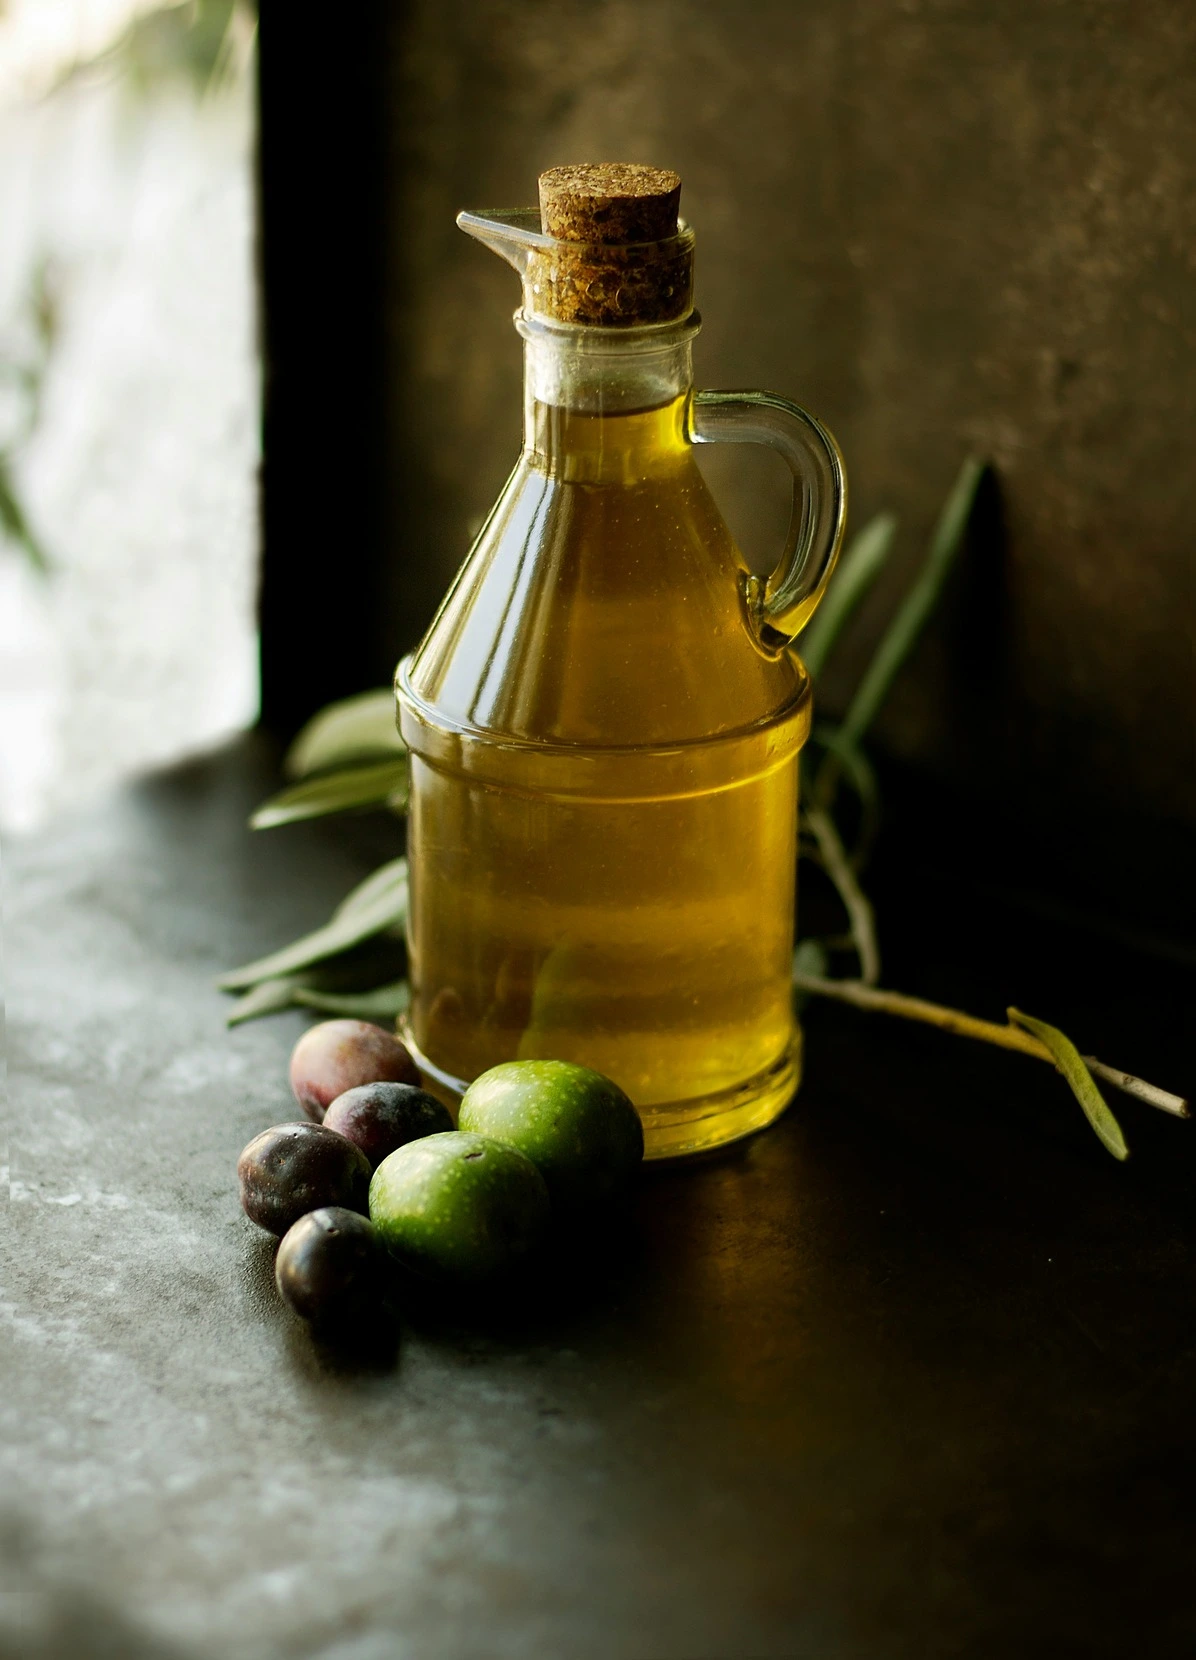
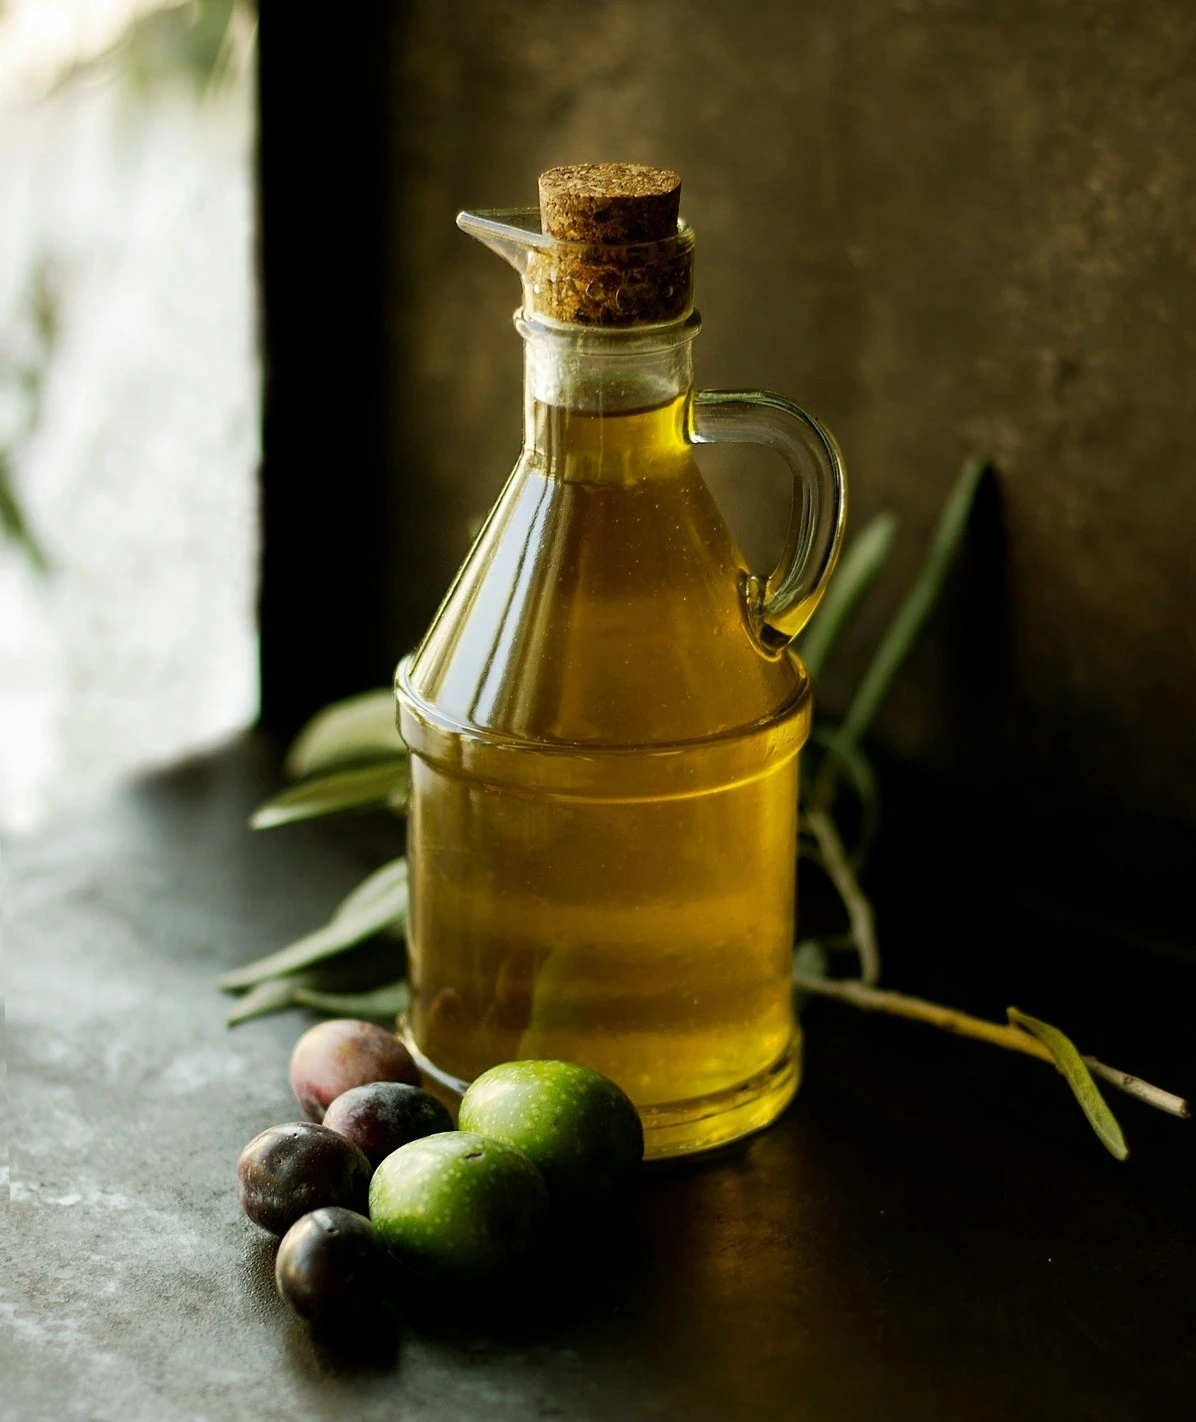
CORECTION DETAILS

diff --git a/index.html b/index.html
@@ -90,9 +90,6 @@
       font-family: var(--heading-font); font-size: 10.5px; font-weight: 500; letter-spacing: 1.6px;
       text-transform: uppercase; color: #6b7280; white-space: nowrap; line-height: 1;
     }
-    .header .logo .brand-full::after {
-      content: ""; display: inline-block; width: 34px; height: 2px; margin-left: 9px; background: var(--accent-color, #d62828); border-radius: 2px;
-    }
     @media (max-width: 575px) {
       .header .logo .brand-name { font-size: 24px; }
       .header .logo .brand-full { font-size: 7.5px; letter-spacing: 1px; margin-top: 4px; }
@@ -354,6 +351,9 @@
               <img src="assets/img/clients/cma.webp" class="img-fluid" alt="CMA CGM logo" loading="lazy">
             </div>
 
+            <div class="swiper-slide client-logo">
+              <img src="assets/img/clients/maersk.webp" class="img-fluid" alt="CMA CGM logo" loading="lazy">
+            </div>
           </div>
         </div> 
           
@@ -531,7 +531,6 @@
 
     <!-- /Services Section -->
 
-    <!-- Portfolio Section -->
     <section id="portfolio" class="portfolio section">
 
       <!-- Section Title -->
@@ -549,6 +548,7 @@
             <li data-filter=".filter-frozen">Frozen Seafood</li>
             <li data-filter=".filter-natural">Agro &amp; Natural Products</li>
             <li data-filter=".filter-industrial">Industrial &amp; General Cargo</li>
+            <li data-filter=".filter-furniture">Furniture &amp; Handicraft</li>
           </ul>
 
           <div class="row gy-4 isotope-container" data-aos="fade-up" data-aos-delay="200">
@@ -692,6 +692,28 @@
                 <h4>Medical Equipment</h4>
                 <p>Medical equipment shipments, handled carefully and on schedule.</p>
                 <a class="cargo-ask" href="https://wa.me/6282229505258?text=Halo%20PT%20Sarana%20Indah%20Logistic%2C%20saya%20ingin%20menanyakan%20pengiriman%20alat%20kesehatan%20%28Medical%20Equipment%29." target="_blank" rel="noopener"><i class="bi bi-whatsapp"></i> Ask about Medical Equipment</a>
+              </div>
+              </div>
+            </div><!-- End Portfolio Item -->
+
+            <div class="col-lg-4 col-md-6 portfolio-item isotope-item filter-furniture">
+              <div class="cargo-card">
+              <img src="assets/img/masonry-portfolio/furniture.webp" class="img-fluid" alt="Furniture prepared for shipment" loading="lazy">
+              <div class="portfolio-info">
+                <h4>Furniture</h4>
+                <p>Furniture shipments, packed and handled with care to avoid damage.</p>
+                <a class="cargo-ask" href="https://wa.me/6282229505258?text=Halo%20PT%20Sarana%20Indah%20Logistic%2C%20saya%20ingin%20menanyakan%20pengiriman%20furnitur%20%28Furniture%29." target="_blank" rel="noopener"><i class="bi bi-whatsapp"></i> Ask about Furniture</a>
+              </div>
+              </div>
+            </div><!-- End Portfolio Item -->
+
+            <div class="col-lg-4 col-md-6 portfolio-item isotope-item filter-furniture">
+              <div class="cargo-card">
+              <img src="assets/img/masonry-portfolio/handycraft.webp" class="img-fluid" alt="Handicraft products prepared for shipment" loading="lazy">
+              <div class="portfolio-info">
+                <h4>Handicraft</h4>
+                <p>Handicraft and decorative product shipments, handled with care.</p>
+                <a class="cargo-ask" href="https://wa.me/6282229505258?text=Halo%20PT%20Sarana%20Indah%20Logistic%2C%20saya%20ingin%20menanyakan%20pengiriman%20kerajinan%20tangan%20%28Handicraft%29." target="_blank" rel="noopener"><i class="bi bi-whatsapp"></i> Ask about Handicraft</a>
               </div>
               </div>
             </div><!-- End Portfolio Item -->

diff --git a/services.html b/services.html
@@ -239,9 +239,6 @@
       font-family: var(--heading-font); font-size: 10.5px; font-weight: 500; letter-spacing: 1.6px;
       text-transform: uppercase; color: #6b7280; white-space: nowrap; line-height: 1;
     }
-    .header .logo .brand-full::after {
-      content: ""; display: inline-block; width: 34px; height: 2px; margin-left: 9px; background: var(--accent-color, #d62828); border-radius: 2px;
-    }
     @media (max-width: 575px) {
       .header .logo .brand-name { font-size: 24px; }
       .header .logo .brand-full { font-size: 7.5px; letter-spacing: 1px; margin-top: 4px; }
@@ -376,7 +373,7 @@
           <div class="svc-media">
             <div class="frame">
               <span class="svc-num"><i class="bi bi-diagram-3"></i>01</span>
-              <img src="assets/img/hero-carousel/hero-carousel-3.webp" alt="Container terminal with port cranes handling cargo for freight forwarding in Surabaya" loading="lazy">
+              <img src="assets/img/bl.webp" alt="Container terminal with port cranes handling cargo for freight forwarding in Surabaya" loading="lazy">
             </div>
           </div>
           </div>
@@ -406,7 +403,7 @@
           <div class="svc-media">
             <div class="frame">
               <span class="svc-num"><i class="bi bi-water"></i>02</span>
-              <img src="assets/img/hero-carousel/hero-carousel-1.webp" alt="Container ship being loaded at a port terminal, sea freight from Surabaya" loading="lazy">
+              <img src="assets/img/PORT 2.webp" alt="Container ship being loaded at a port terminal, sea freight from Surabaya" loading="lazy">
             </div>
           </div>
           </div>
@@ -465,7 +462,7 @@
           <div class="svc-media">
             <div class="frame">
               <span class="svc-num"><i class="bi bi-file-earmark-check"></i>04</span>
-              <img src="assets/img/masonry-portfolio/paper.webp" alt="Stack of shipping documents prepared for customs clearance in Surabaya" loading="lazy">
+              <img src="assets/img/customs.webp" alt="Stack of shipping documents prepared for customs clearance in Surabaya" loading="lazy">
             </div>
           </div>
           </div>
@@ -523,7 +520,7 @@
           <div class="svc-media">
             <div class="frame">
               <span class="svc-num"><i class="bi bi-box-seam"></i>06</span>
-              <img src="assets/img/masonry-portfolio/oversize.webp" alt="Heavy oversize cargo being lifted onto a trailer by a handling crew" loading="lazy">
+              <img src="assets/img/isotank.webp" alt="Heavy oversize cargo being lifted onto a trailer by a handling crew" loading="lazy">
             </div>
           </div>
           </div>

diff --git a/about.html b/about.html
@@ -97,9 +97,6 @@
       font-family: var(--heading-font); font-size: 10.5px; font-weight: 500; letter-spacing: 1.6px;
       text-transform: uppercase; color: #6b7280; white-space: nowrap; line-height: 1;
     }
-    .header .logo .brand-full::after {
-      content: ""; display: inline-block; width: 34px; height: 2px; margin-left: 9px; background: var(--accent-color, #d62828); border-radius: 2px;
-    }
     @media (max-width: 575px) {
       .header .logo .brand-name { font-size: 24px; }
       .header .logo .brand-full { font-size: 7.5px; letter-spacing: 1px; margin-top: 4px; }
